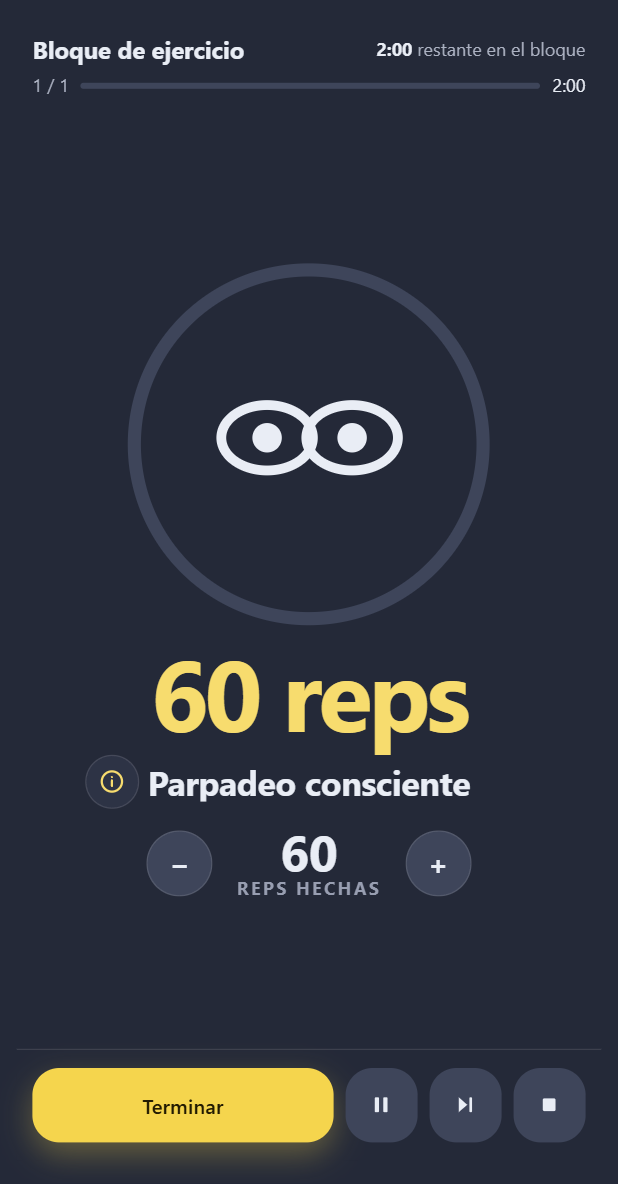
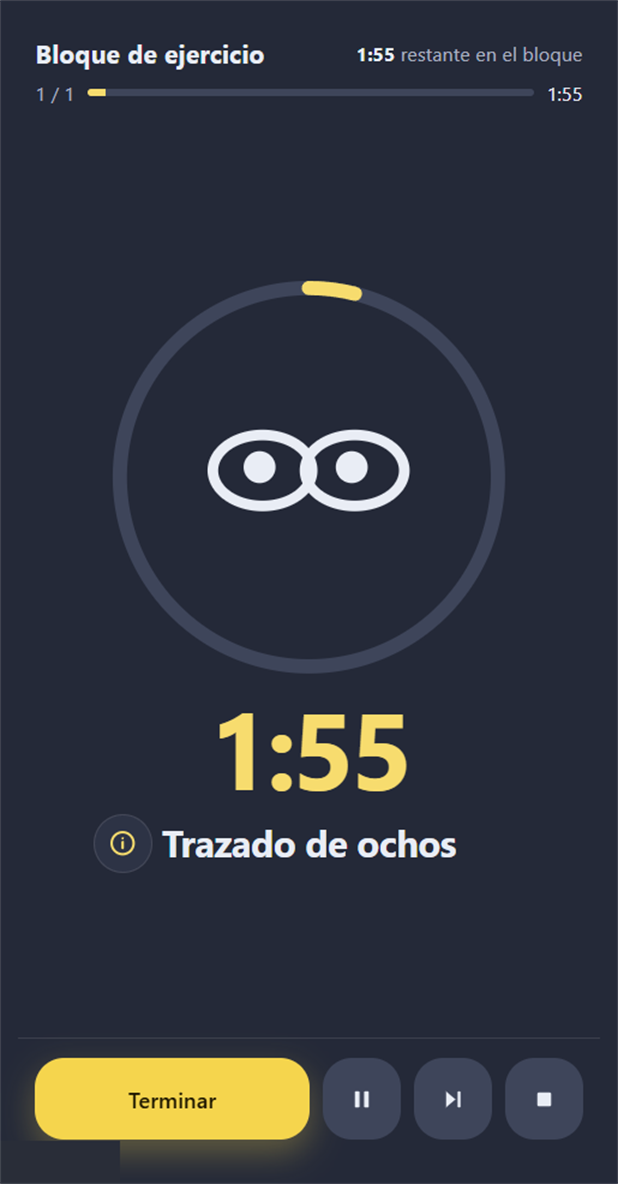
Eye rest shows figure-eight tracing on a timer

diff --git a/index.es.html b/index.es.html
@@ -169,13 +169,13 @@
         <p class="sub">Ejercicios breves para los días de mucha pantalla.</p>
         <ul>
           <li>Un bloque guiado que empiezas cuando quieras desde la pantalla de inicio.</li>
-          <li>Movimientos como el parpadeo consciente, con una cuenta que seguir.</li>
+          <li>Movimientos como el trazado de ochos, con un temporizador que marca el ritmo.</li>
           <li>Combínalo con un aviso de descanso visual para no tener que acordarte.</li>
         </ul>
       </div>
       <div class="shot">
-        <img class="phone light-only" src="img/es/light/eye-rest.png" width="618" height="1184" loading="lazy" alt="Un bloque de descanso visual en marcha: parpadeo consciente, 60 repeticiones.">
-        <img class="phone dark-only" src="img/es/dark/eye-rest.png" width="618" height="1184" loading="lazy" alt="Un bloque de descanso visual en marcha: parpadeo consciente, 60 repeticiones.">
+        <img class="phone light-only" src="img/es/light/eye-rest.png" width="618" height="1184" loading="lazy" alt="Un bloque de descanso visual en marcha: trazado de ochos con un temporizador de 2 minutos.">
+        <img class="phone dark-only" src="img/es/dark/eye-rest.png" width="618" height="1184" loading="lazy" alt="Un bloque de descanso visual en marcha: trazado de ochos con un temporizador de 2 minutos.">
       </div>
     </div>
 

diff --git a/index.html b/index.html
@@ -169,13 +169,13 @@
         <p class="sub">Short exercises for screen-heavy days.</p>
         <ul>
           <li>A guided block you can start any time from the home screen.</li>
-          <li>Moves such as deliberate blinking, with a count to follow.</li>
+          <li>Moves such as figure-eight tracing, with a timer that paces you.</li>
           <li>Pair it with an eye-rest nudge so you do not have to remember.</li>
         </ul>
       </div>
       <div class="shot">
-        <img class="phone light-only" src="img/en/light/eye-rest.png" width="618" height="1184" loading="lazy" alt="An eye-rest block running: near-point convergence, 20 reps.">
-        <img class="phone dark-only" src="img/en/dark/eye-rest.png" width="618" height="1184" loading="lazy" alt="An eye-rest block running: near-point convergence, 20 reps.">
+        <img class="phone light-only" src="img/en/light/eye-rest.png" width="618" height="1184" loading="lazy" alt="An eye-rest block running: figure-eight tracing on a 2-minute timer.">
+        <img class="phone dark-only" src="img/en/dark/eye-rest.png" width="618" height="1184" loading="lazy" alt="An eye-rest block running: figure-eight tracing on a 2-minute timer.">
       </div>
     </div>
 
